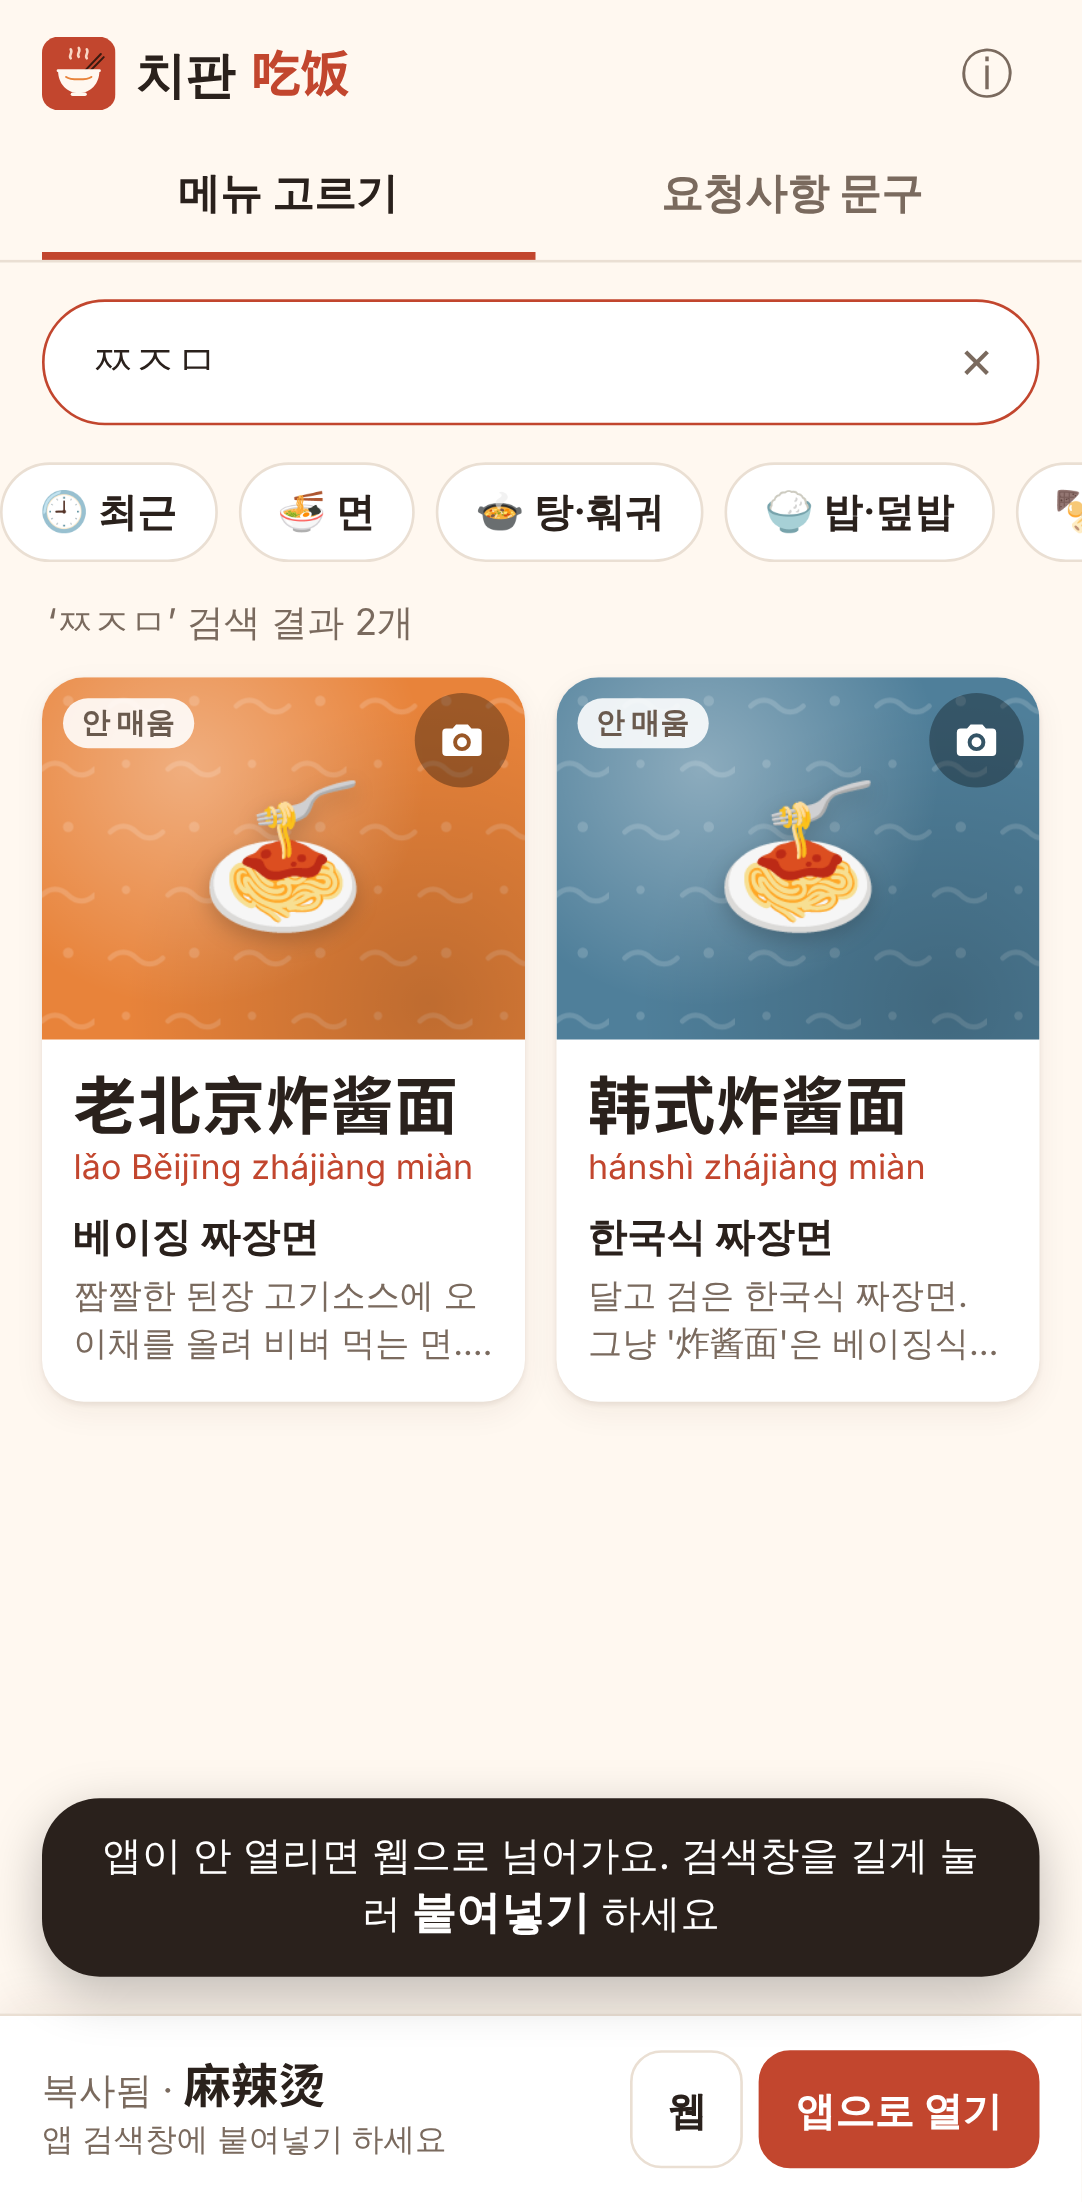
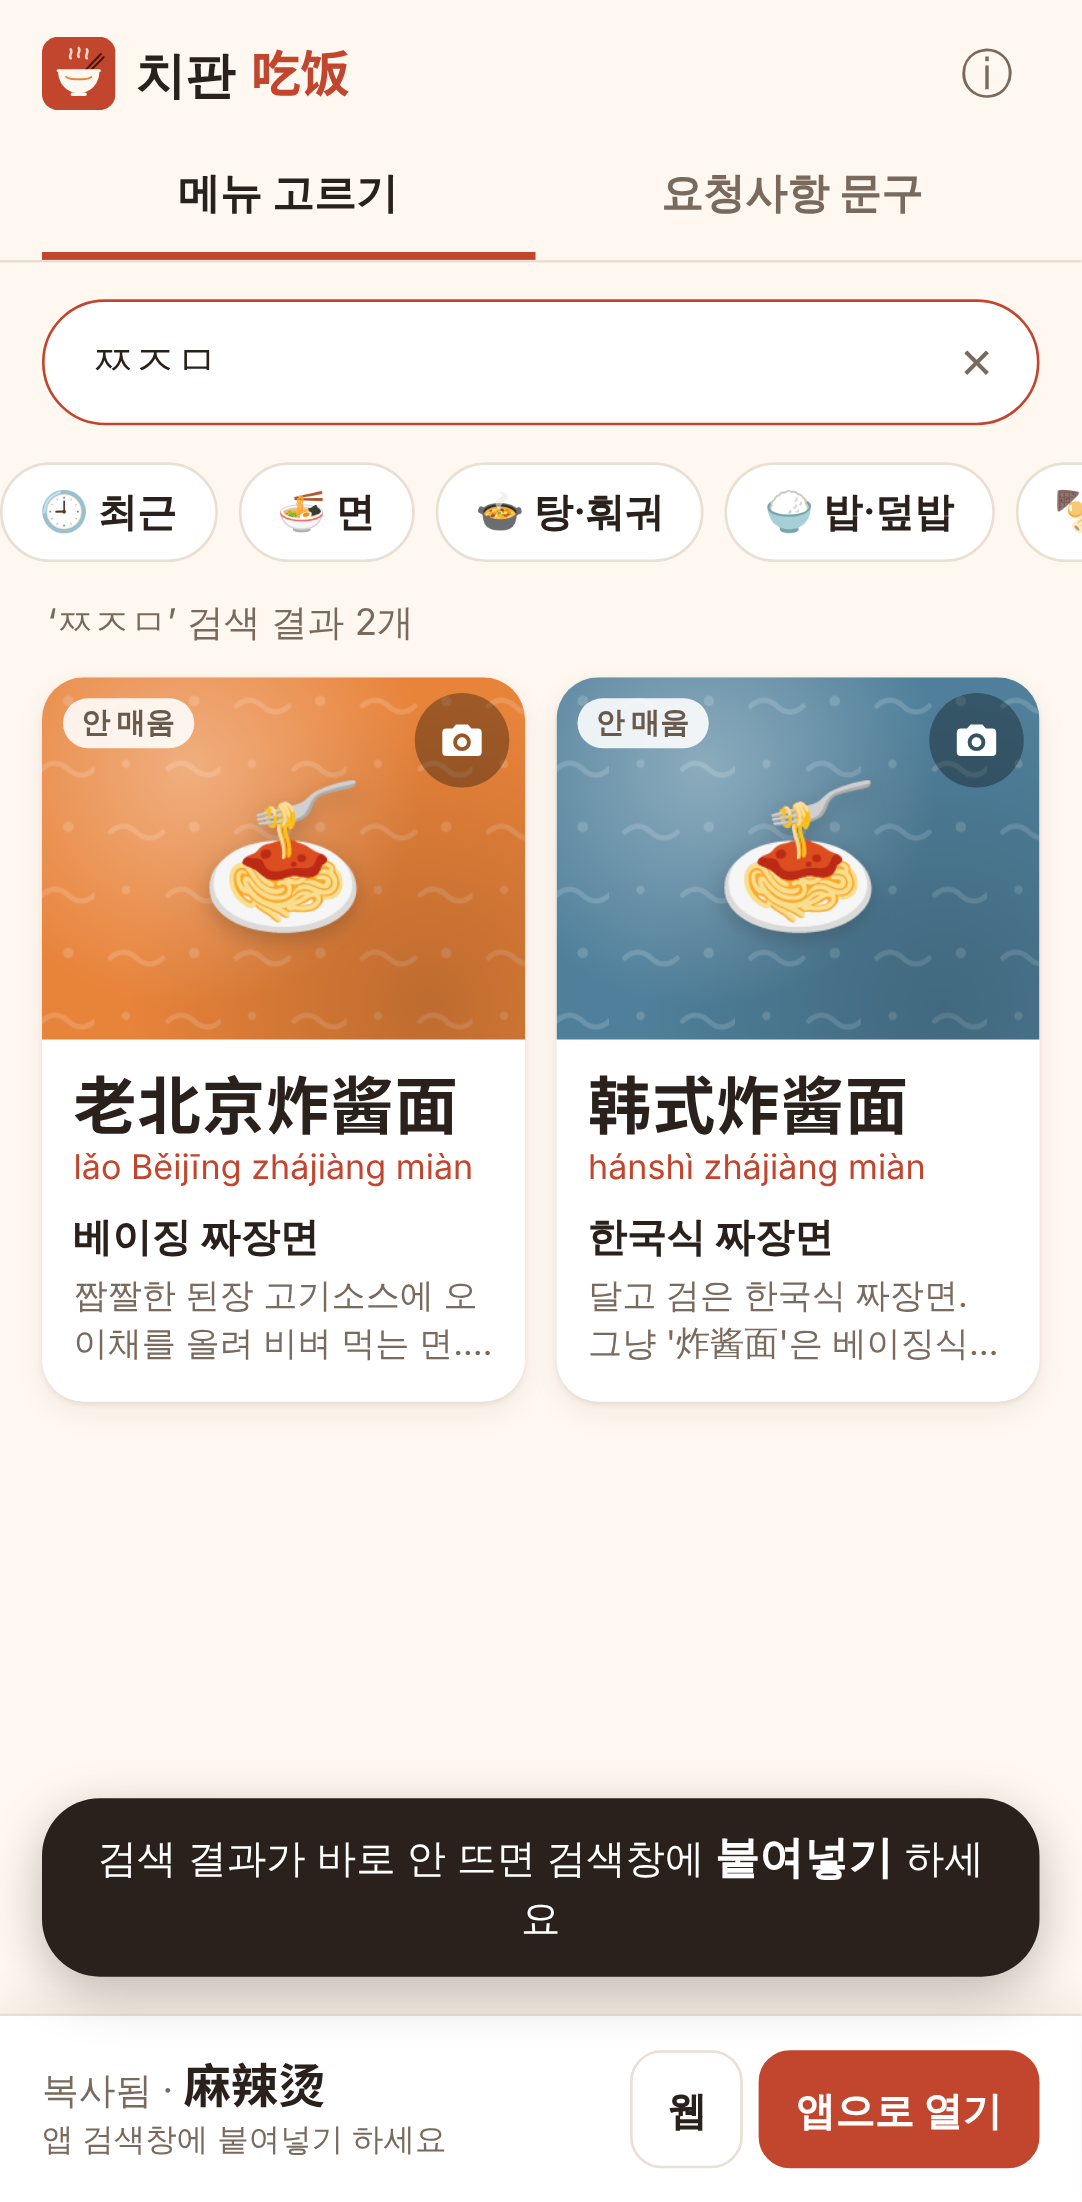
[앱으로 열기]에 검색어 넘기기 시도 + 안드로이드 앱 열기 확인 기록
- 복사한 검색어가 있으면 imeituan://www.meituan.com/search?q= 경로로 앱을 연다 (공개 URL 스킴 목록의 형식, 미확인)
- 앱이 못 알아들어도 앱은 열리고 검색어는 클립보드에 있음
- 안드로이드 패키지명·스킴: 2026-10-28 실기기 확인

Claude-Session: https://claude.ai/code/session_01W2qhPUjUcKVQUNqCzkCZnu

Changed region(s): [[0.0915, 0.8338, 0.915, 0.8955]]

diff --git a/js/open.js b/js/open.js
@@ -22,8 +22,11 @@
     else go(h5);
   }
 
-  function androidIntent(a, h5) {
-    return 'intent://' + (a.path || '') + '#Intent;scheme=' + a.scheme + ';package=' + a.package +
+  function withQ(tpl, q) { return tpl.replace('{q}', encodeURIComponent(q)); }
+
+  function androidIntent(a, h5, q) {
+    var p = q && a.searchPath ? withQ(a.searchPath, q) : (a.path || '');
+    return 'intent://' + p + '#Intent;scheme=' + a.scheme + ';package=' + a.package +
       ';S.browser_fallback_url=' + encodeURIComponent(h5) + ';end';
   }
 
@@ -43,11 +46,12 @@
 
   // mode: 'app' = 앱 시도 후 안 되면 웹, 'web' = 웹만.
   // 어떤 방식으로 열었는지 돌려준다: 'h5' | 'android-intent' | 'ios-scheme'
-  function openDelivery(mode) {
+  // q: 앱에 넘길 검색어(없으면 앱 첫 화면)
+  function openDelivery(mode, q) {
     var cfg = window.CHIFAN_CONFIG, h5 = cfg.h5Url, app = cfg.appOpen || {};
     if (mode !== 'app' || !app.enabled || env.inApp) { openH5(h5); return 'h5'; }
-    if (env.android && app.android && app.android.package) { go(androidIntent(app.android, h5)); return 'android-intent'; }
-    if (env.ios && app.ios && app.ios.url) { tryThen(app.ios.url, h5, app.ios.fallbackMs); return 'ios-scheme'; }
+    if (env.android && app.android && app.android.package) { go(androidIntent(app.android, h5, q)); return 'android-intent'; }
+    if (env.ios && app.ios && app.ios.url) { tryThen(q && app.ios.searchUrl ? withQ(app.ios.searchUrl, q) : app.ios.url, h5, app.ios.fallbackMs); return 'ios-scheme'; }
     openH5(h5);
     return 'h5';
   }

diff --git a/js/config.js b/js/config.js
@@ -13,13 +13,18 @@ window.CHIFAN_CONFIG = {
 
     android: {
       // intent://<path>#Intent;scheme=<scheme>;package=<package>;S.browser_fallback_url=<h5>;end
-      scheme: 'imeituan',        // 미확인
-      path: '',                  // 미확인 (비워 두면 앱 첫 화면)
-      package: 'com.sankuai.meituan' // 미확인
+      scheme: 'imeituan',        // 확인됨 2026-10-28 (안드로이드 실기기에서 앱 실행)
+      path: '',                  // 비워 두면 앱 첫 화면
+      package: 'com.sankuai.meituan', // 확인됨 2026-10-28 (설치·실행)
+      // 복사한 검색어가 있을 때 쓰는 경로. {q} = 검색어(URL 인코딩).
+      // 공개된 커뮤니티 URL 스킴 목록에 나온 형식이며 공식 문서는 없음 → 미확인.
+      // 앱이 못 알아들으면 첫 화면만 열리고, 검색어는 클립보드에 있으니 붙여넣으면 된다.
+      searchPath: 'www.meituan.com/search?q={q}'
     },
 
     ios: {
       url: 'imeituan://',        // 미확인
+      searchUrl: 'imeituan://www.meituan.com/search?q={q}', // 미확인 (안드로이드와 같은 형식)
       fallbackMs: 1600           // 이 시간 안에 페이지가 숨겨지지 않으면 H5로
     }
   },

diff --git a/tests/screens.js b/tests/screens.js
@@ -71,12 +71,15 @@ async function run(browser, name, dev) {
   await page.evaluate(() => { window.__went = []; });
   await page.click('#openAppBtn');
   if (name === 'pixel7') {
+    // 복사한 검색어(麻辣烫)를 앱 검색 경로로 넘긴다
     assert.deepStrictEqual(await page.evaluate(() => window.__went),
-      ['intent://#Intent;scheme=imeituan;package=com.sankuai.meituan;S.browser_fallback_url=' + encodeURIComponent(H5) + ';end']);
+      ['intent://www.meituan.com/search?q=' + encodeURIComponent('麻辣烫') +
+       '#Intent;scheme=imeituan;package=com.sankuai.meituan;S.browser_fallback_url=' + encodeURIComponent(H5) + ';end']);
   } else {
-    assert.deepStrictEqual(await page.evaluate(() => window.__went), ['imeituan://']);
+    const ios = 'imeituan://www.meituan.com/search?q=' + encodeURIComponent('麻辣烫');
+    assert.deepStrictEqual(await page.evaluate(() => window.__went), [ios]);
     await page.waitForTimeout(1800); // 앱이 안 열리면 웹으로
-    assert.deepStrictEqual(await page.evaluate(() => window.__went), ['imeituan://', H5]);
+    assert.deepStrictEqual(await page.evaluate(() => window.__went), [ios, H5]);
   }
 
   // 3) 한국어 검색: 초성 / 부분 / 입력 중

diff --git a/js/app.js b/js/app.js
@@ -81,12 +81,14 @@
 
   // ---------- 앱 열기 ----------
   function openApp(mode) {
-    var how = Opener.openDelivery(mode);
+    var how = Opener.openDelivery(mode, S.lastCopied && (S.lastCopied.q || S.lastCopied.zh));
     var msg = S.lastCopied
       ? '검색창을 길게 눌러 <b>붙여넣기</b> 하세요'
       : '먼저 메뉴 카드를 눌러 검색어를 복사해 두면 편해요';
     if (mode === 'app' && how === 'h5' && Opener.env.inApp) msg = '앱 안 브라우저라 웹으로 열었어요. ' + msg;
-    else if (how !== 'h5') msg = '앱이 안 열리면 웹으로 넘어가요. ' + msg;
+    else if (how !== 'h5') msg = S.lastCopied
+      ? '검색 결과가 바로 안 뜨면 검색창에 <b>붙여넣기</b> 하세요'
+      : '앱이 안 열리면 웹으로 넘어가요. ' + msg;
     toast(msg, 3200);
   }
 

diff --git a/sw.js b/sw.js
@@ -1,5 +1,5 @@
 // 오프라인용 서비스워커. 파일을 바꾸면 VERSION을 올릴 것.
-var VERSION = 'chifan-v4';
+var VERSION = 'chifan-v5';
 var CORE = [
   './',
   'index.html',

diff --git a/README.md b/README.md
@@ -63,16 +63,18 @@
 | 항목 | 현재 값 | 상태 | 확인 날짜 / 기기 |
 |---|---|---|---|
 | H5 주소 | `https://h5.waimai.meituan.com/waimai/mindex/home` | 이 클라우드 환경에서 접속만 확인 (해외 IP라 가게 목록은 안 뜸) | 2026-10 |
-| 안드로이드 패키지명 | `com.sankuai.meituan` | **미확인 (추정)** | — |
-| 안드로이드 intent scheme / path | `imeituan` / (빈칸) | **미확인 (추정)** | — |
+| 안드로이드 패키지명 | `com.sankuai.meituan` | **확인됨** (설치·실행) | 2026-10-28 / 사용자 안드로이드 폰 |
+| 안드로이드 intent scheme / path | `imeituan` / (빈칸) | **확인됨** ([앱으로 열기] → 앱 실행) | 2026-10-28 / 사용자 안드로이드 폰 |
+| 검색어 넘기기 (안드로이드·iOS) | `imeituan://www.meituan.com/search?q={검색어}` | **미확인** (커뮤니티 URL 스킴 목록의 형식, 공식 문서 없음) | — |
 | iOS URL 스킴 | `imeituan://` | **미확인 (추정)** | — |
 | 설치: 안드로이드 스토어 | `market://details?id=com.sankuai.meituan` → 1.6초 안에 안 열리면 Google Play 웹 | **미확인** (패키지명 추정) | — |
 | 설치: iOS App Store | `https://apps.apple.com/cn/app/id423084029` | **미확인** (앱 ID 추정, 중국 지역 Apple ID 필요할 수 있음) | — |
 
 설치 링크가 틀려도 `美团`이 복사돼 있으니 스토어 검색창에 붙여넣으면 된다. Google Play는 중국 안에서 안 열리고, 중국 폰(샤오미·화웨이 등)은 `market://`을 자기 스토어로 연다.
 
-**2026-10-28 실기기 확인:** 사용자 폰에서 [앱으로 열기] → 메이퇀 앱 실행됨, [앱 설치하기] → 설치됨. (안드로이드/아이폰 중 어느 쪽인지 기록 필요 → 해당 행을 ‘확인됨’으로 바꿀 것)
-앱이 열린 뒤 **검색어까지 자동으로 들어가지는 않음** — 검색어 딥링크는 비공개라 클립보드 붙여넣기가 계속 기본.
+**2026-10-28 실기기 확인 (안드로이드):** [앱 설치하기] → 설치됨, [앱으로 열기] → 메이퇀 앱 실행됨. 앱 첫 화면만 열 때는 검색어가 안 들어감.
+이후 [앱으로 열기]에 검색어 경로(`search?q=`)를 붙여 보냄. 이 경로가 실제로 검색 결과를 여는지는 아직 확인 전이고,
+안 되더라도 앱은 열리고 검색어는 클립보드에 있으므로 붙여넣기로 이어진다. (출처: 공개된 URL 스킴 모음 — 메이퇀 페이지나 앱 코드는 분석하지 않음)
 
 실제 폰에서 확인되면 `js/config.js` 값을 고치고 `enabled: true`로 바꾼 뒤, 이 표에 날짜와 기기를 적는다.
 (메이퇀 페이지나 앱 코드를 분석해서 알아내지 않는다. 폰에서 직접 확인한다.)
